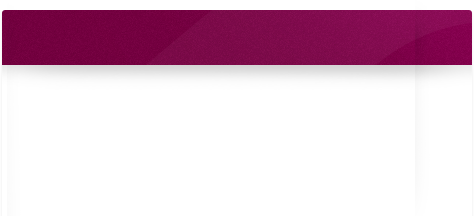
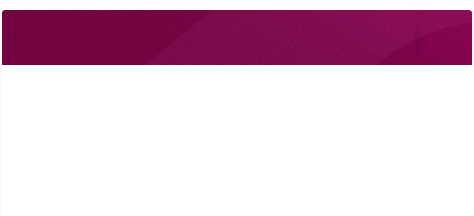
Add new images and changes in global.css

Changed region(s): [[0.0295, 0.2778, 0.9451, 0.3611]]

diff --git a/css/global.css b/css/global.css
@@ -129,7 +129,7 @@ a:link, a:visited { color: #8b0053; text-decoration: none;}
 .region-sidebar-second a,
 .region-footer-second a,
 .region-footer-third a {
-  text-decoration: underline;
+/*  text-decoration: underline;*/
 }
 
 a:active,
@@ -245,6 +245,10 @@ ul.menu, ul.menu li, ul.menu a {
 ul.inline li {
 	padding: 0
 	}
+.front h2.pane-title a,
+.frontpage-title{
+  border-bottom: 3px solid #5d0038;
+}
 
 h2.pane-title, h2.block-title {
 	color: #333;
@@ -259,7 +263,7 @@ h2.pane-title, h2.block-title {
 	font-weight: bolder
 	}
 
-.pane-os2web-base-panels-view-newslist h2.pane-title,  .pane-spotboxe-panel-pane-5 h2.pane-title {
+.pane-spotboxe-panel-pane-5 h2.pane-title {
 	margin-left: 12px
 	}
 
@@ -461,6 +465,7 @@ div.vertical-tabs .vertical-tabs-panes .fieldset-wrapper legend {
   width: 400px;
   display: inline-block;
 }
+.view .news-list-right-small {width: 220px;} 
 .news-list-right-2 {
   padding: 20px 20px;
   width: 40%;
@@ -528,7 +533,7 @@ ul.jcarousel-list-horizontal { }
   margin-top: 25px;
 }
 
-.news-list {width: 100%; height: 125px; background-color: #f5f5f5;}
+.news-list {width: 100%; height: 115px; background-color: #f5f5f5;}
 .view-id-os2web_base_panels_view_newslist.view-display-id-block p {
 	margin-bottom: 5px;
 }
@@ -627,7 +632,7 @@ ul.jcarousel-list-horizontal { }
 #block-menu-os2web-menu-business-shortcuts {float: left}
 #block-menu-os2web-menu-business-shortcuts .block-title {display: none;}
 
-#region-header-second { height: 80px}
+#region-header-second { height: 50px}
 
 #region-header-second .region-inner li {
 	border-right: solid 1px #d8d8d8;
@@ -683,7 +688,7 @@ ul.jcarousel-list-horizontal { }
 /*	background-image: url(../images/byvaaben1.png);
 	background-position: center top;
 	background-repeat: no-repeat;
-*/	height: 202px;
+*/	height: 172px;
         max-width: 970px;
 	margin: auto;
 }
@@ -795,7 +800,14 @@ ul.jcarousel-list-horizontal { }
 #region-search {
   width: 398px;
 }
-
+#region-search #search-block-form .container-inline {
+  border: 2px solid #8b0053;
+}
+#region-search #search-block-form input:focus {
+  outline: none;
+  box-shadow: none;
+  border: none;
+}
 #block-search-form .content #edit-search-block-form--2 {
 	font-size: 17px;
 	border: none;
@@ -803,7 +815,6 @@ ul.jcarousel-list-horizontal { }
 	width: 220px;/*262px;*/
 	padding: 0 0 0 10px;
 	text-transform: uppercase;
-	background-image: url(../images/search_bg.png);
 	color: #9b185a;
   }
 
@@ -813,7 +824,7 @@ ul.jcarousel-list-horizontal { }
     text-indent: -1100000px;
 }
 
-#region-header-second .region-inner {padding-top: 65px; padding-left: 20px}
+#region-header-second .region-inner {padding-top: 45px; padding-left: 20px}
 #region-header-second .region-inner li { float: left; padding-right: 10px; text-transform: uppercase; font-family: "myriad-pro", Arial, Helvetica, sans-serif; font-size: 12px; list-style: none; }
 #region-header-second .region-inner li.first { margin-left: 0px }
 
@@ -2967,13 +2978,11 @@ div.breadcrumb.you-are-here {
 }
 
 .del-bund {
-	background-image: url(../images/del-bg.png);
 	height: 76px;
 	text-transform: uppercase;
 	font-size: 10px;
 	width: 478px;
-	background-position: 0;
-	background-repeat: no-repeat;
+	background-color: #f5f5f5;
 	margin-left: -4px;
 }
 
@@ -2987,7 +2996,7 @@ div.breadcrumb.you-are-here {
     display: block;
     width: 58px;
     height: 43px;
-     background-image: url(../images/del.png);
+    background-image: url(../images/del.png);
  background-repeat: no-repeat;
  background-position: right center;
   padding: 8px 10px 10px 0;
@@ -3020,6 +3029,7 @@ div.breadcrumb.you-are-here {
 	position: absolute;
 	top: 0px;
 	left: 389px;
+        color: #fff;
 }
 
 .node-type-iframe-selvbetjeningsl-sning-mm .printvenlig-side a { left: 632px}
@@ -3035,9 +3045,9 @@ div.breadcrumb.you-are-here {
 .pane-os2web-meetings-meeting-search-block .pane-content {
 	padding: 10px 10px;
 	clear: both;
-	background-image: url(../images/dagsordnerBAG.png);
+/*	background-image: url(../images/dagsordnerBAG.png);
 	background-repeat: no-repeat;
-	height: 120px }
+*/	height: 120px }
 
 .grid-6 .grid-3.views-row-odd { margin-left: 0;}
 .portal-politik-og-planer .spotbox-horisontal .views-row { padding-top: 5px; background-position: 0 0 }
@@ -3299,7 +3309,8 @@ line-height: 22px;
 .yaselect-current,
 .yaselect-select {
 	font-size: 15px;
-	color: #787878; }
+/*	color: #787878;*/
+}
 /*
 .form-item-os2web-meetings-tax-committee .yaselect-wrap {
 	width: 440px; }
@@ -3843,12 +3854,11 @@ tr.even td { background: #f9f9f9;}
 
 .portalnews-big .views-row {
   /*padding-left: 20px;*/
-  float: left;
   /*  padding-left: 30px;width: 200px;*/
   /*margin-right: 10px;*/
 }
 
-.portalnews-big .views-row.views-row-first {
+/*.portalnews-big .views-row.views-row-first {
   width: 100%;
   display: block;
   clear: both;
@@ -3856,7 +3866,7 @@ tr.even td { background: #f9f9f9;}
   padding-left: 0;
   padding-top: 8px;
   height: 155px;
-}
+}*/
 
 .portalnews-big .views-row .news-list-left {
   display: block;
@@ -4434,9 +4444,16 @@ input.error{
     padding: 10px 0 0 0;
     width: 100%;
 }
+.pane-os2web-base-panels-view-newslist .pane-content {background-color: #f5f5f5;}
+.news-list.view-id-os2web_base_panels_view_newslist {
+  padding: 20px 0 20px 250px;
+  width: 420px;
+  height: initial;
+}
+.portalnews-big.news-list.view-id-os2web_base_panels_view_newslist {width : 223px; height: initial;}
+.news-list.view-id-os2web_base_panels_view_newslist  .views-row { margin-bottom: 10px;}
 .news-list-next {
   border-bottom: 10px solid #fff;
-  margin-bottom: 10px;
 }
 #zone-content {padding-top: 0px}
 #zone-postscript-wrapper {display: none}
